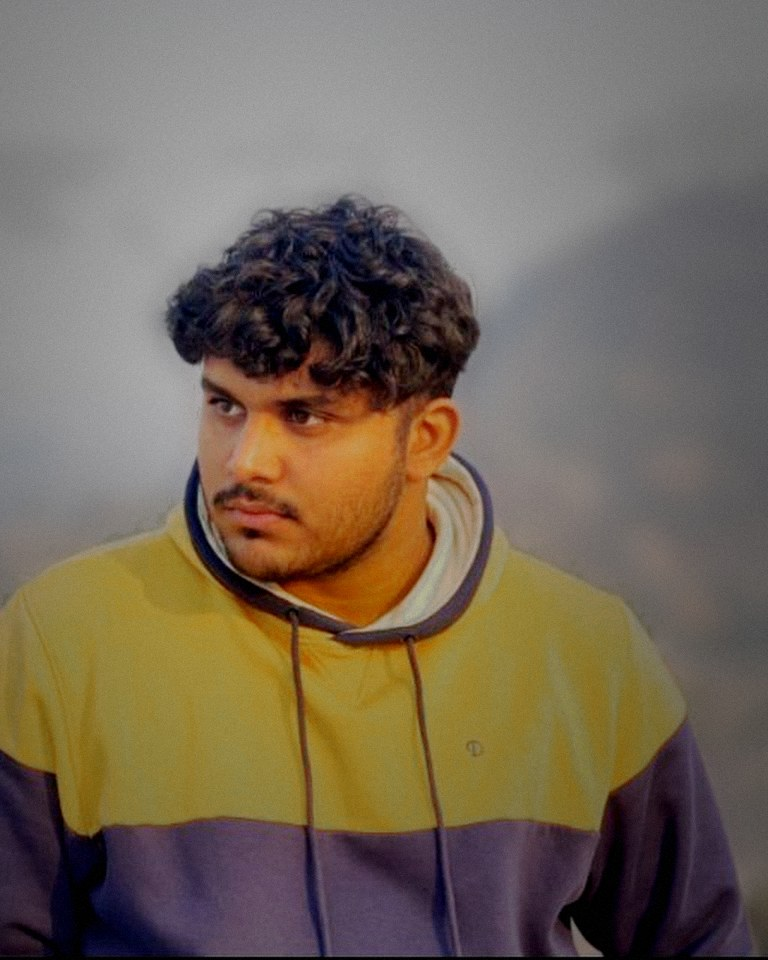
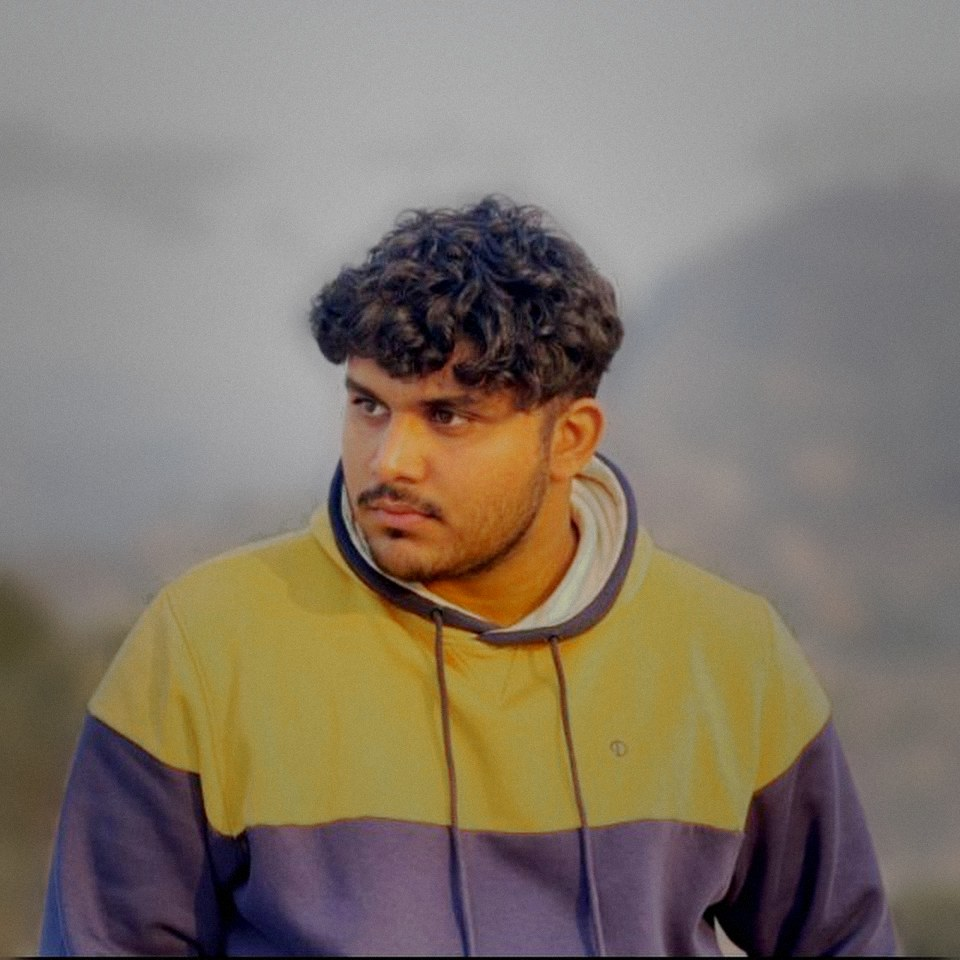
Update site

diff --git a/assets/main.css b/assets/main.css
@@ -86,11 +86,9 @@ a:hover { text-decoration-color: var(--accent); }
 .hero h1 { margin-top: 20px; font: 600 clamp(48px, 6.6vw, 88px)/.98 var(--sans); letter-spacing: -.04em; color: var(--text); }
 .hero .statement { margin-top: 28px; max-width: 30ch; font: 400 clamp(21px, 2vw, 26px)/1.35 var(--sans); letter-spacing: -.015em; color: var(--text); }
 .hero .secondary { margin-top: 16px; max-width: 48ch; color: var(--body); }
-.hero-portrait { position: relative; margin: 0; justify-self: end; width: min(100%, 480px); aspect-ratio: 4 / 5; overflow: hidden; border-radius: 2px; background: var(--bg-2); }
-.hero-portrait img { width: 100%; height: 100%; object-fit: cover; object-position: 50% 30%; filter: grayscale(1) contrast(1.06) brightness(.94);
-  transform: translate3d(var(--px, 0px), var(--py, 0px), 0) scale(1.04); transition: filter 1.2s var(--ease), transform .9s var(--ease); }
-.hero-portrait:hover img { filter: grayscale(0) contrast(1) brightness(1); }
-.hero-portrait figcaption { position: absolute; left: 14px; bottom: 12px; font: 500 12px var(--mono); letter-spacing: .08em; text-transform: uppercase; color: rgba(240, 237, 229, .7); }
+.hero-portrait { position: relative; margin: 0; justify-self: end; width: min(100%, 620px); aspect-ratio: 1 / 1;
+  -webkit-mask-image: radial-gradient(closest-side at 52% 50%, #000 58%, rgba(0,0,0,.6) 76%, transparent 100%); mask-image: radial-gradient(closest-side at 52% 50%, #000 58%, rgba(0,0,0,.6) 76%, transparent 100%); }
+.hero-portrait img { width: 100%; height: 100%; object-fit: cover; transform: translate3d(var(--px, 0px), var(--py, 0px), 0) scale(1.02); transition: transform .9s var(--ease); }
 
 /* Scene 02 — Clyflo showcase */
 .showcase-frame { position: relative; aspect-ratio: 16 / 9; overflow: hidden; border: 1px solid var(--line); border-radius: 4px; background: var(--bg-2); }
@@ -257,16 +255,15 @@ details > div { padding-bottom: 16px; }
 
 /* ============================ Motion (non-essential) ============================ */
 @media (prefers-reduced-motion: no-preference) {
-  .hero-portrait { animation: unveil 1.15s cubic-bezier(.65, 0, .35, 1) .15s both; }
-  .hero-portrait img { animation: settle 2.2s var(--ease) .15s both; }
-  .hero-portrait figcaption { animation: rise .6s var(--ease) 1.2s both; }
+  .hero-portrait { animation: fade-in 1.6s var(--ease) .1s both; }
+  .hero-portrait img { animation: settle 2.4s var(--ease) .1s both; }
   .hero-text > * { animation: rise .6s var(--ease) both; }
   .hero-text > :nth-child(2) { animation-delay: .06s; }
   .hero-text > :nth-child(3) { animation-delay: .12s; }
   .hero-text > :nth-child(4) { animation-delay: .18s; }
   .hero-text > :nth-child(5) { animation-delay: .24s; }
-  @keyframes unveil { from { clip-path: inset(0 0 100% 0); } to { clip-path: inset(0 0 0 0); } }
-  @keyframes settle { from { transform: scale(1.16); } }
+  @keyframes fade-in { from { opacity: 0; } }
+  @keyframes settle { from { transform: scale(1.1); } }
   @keyframes rise { from { opacity: 0; transform: translateY(10px); } }
   .reveal-pending { opacity: 0; transform: translateY(16px); }
   .reveal-in { opacity: 1; transform: none; transition: opacity .7s var(--ease), transform .7s var(--ease); }
@@ -286,8 +283,8 @@ details > div { padding-bottom: 16px; }
 }
 @media (max-width: 860px) {
   .hero { grid-template-columns: minmax(0, 1fr); gap: 24px; padding-top: 0; }
-  .hero-portrait { order: -1; justify-self: stretch; width: auto; aspect-ratio: 5 / 4; margin-top: 8px; }
-  .hero-portrait img { object-position: 50% 26%; }
+  .hero-portrait { order: -1; justify-self: center; width: min(100%, 520px); margin: -8px 0 -40px; }
+  .hero-text { position: relative; z-index: 1; }
   .hero h1 { margin-top: 0; }
   .scene-head, .editorial, .showcase-panel { grid-template-columns: minmax(0, 1fr); }
   .scene-head { gap: 16px; }
@@ -313,3 +310,6 @@ details > div { padding-bottom: 16px; }
   .footer-row a { margin: 0 18px 0 0; }
   .prose-section p { font-size: 16.5px; }
 }
+
+/* never let the hero portrait cause sideways scrolling */
+body { overflow-x: clip; }

diff --git a/index.html b/index.html
@@ -41,7 +41,7 @@
     <p class="secondary">I work across AI research, knowledge systems, agent architecture, multimodal intelligence, and production engineering.</p>
     <p class="actions"><a class="btn btn-primary" href="work.html">View Work <span class="arr" aria-hidden="true">→</span></a><a class="btn" href="assets/Muhammad_Qasim_Resume_Final.pdf" download>Download Résumé</a></p>
   </div>
-  <figure class="hero-portrait"><picture><source srcset="assets/portrait-hero.webp" type="image/webp"><img src="assets/portrait-hero.jpg" width="768" height="960" alt="Portrait of Muhammad Qasim" fetchpriority="high"></picture><figcaption>Karachi · 2026</figcaption></figure>
+  <figure class="hero-portrait"><picture><source srcset="assets/portrait-hero.webp" type="image/webp"><img src="assets/portrait-hero.jpg" width="960" height="960" alt="Portrait of Muhammad Qasim" fetchpriority="high"></picture></figure>
 </section>
 </div>
 
